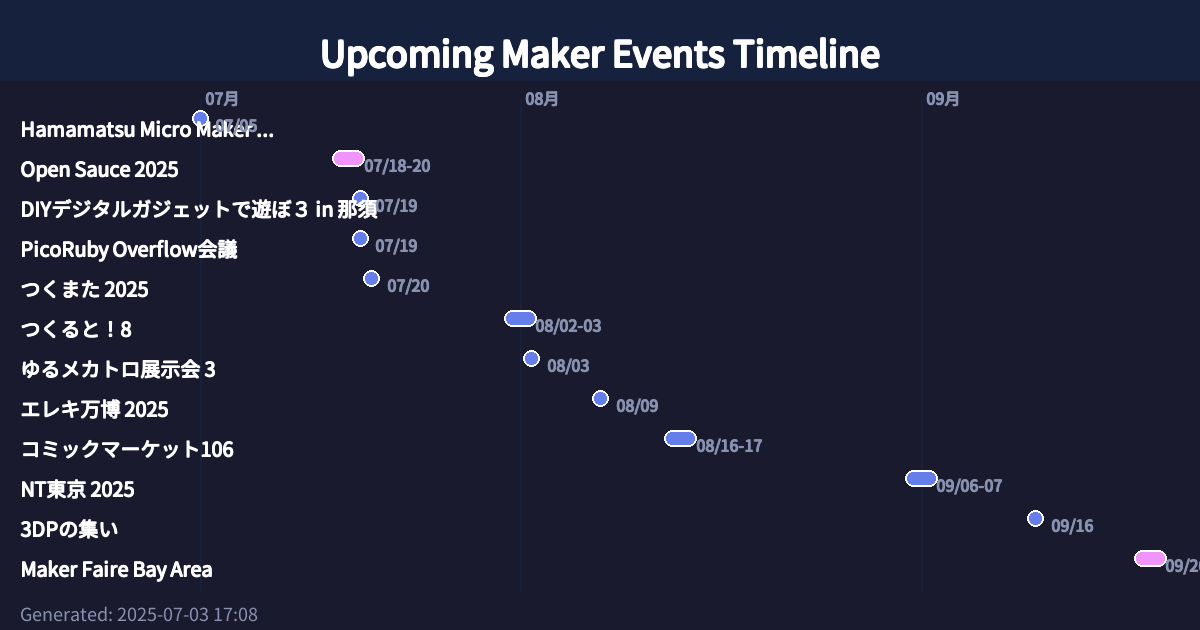
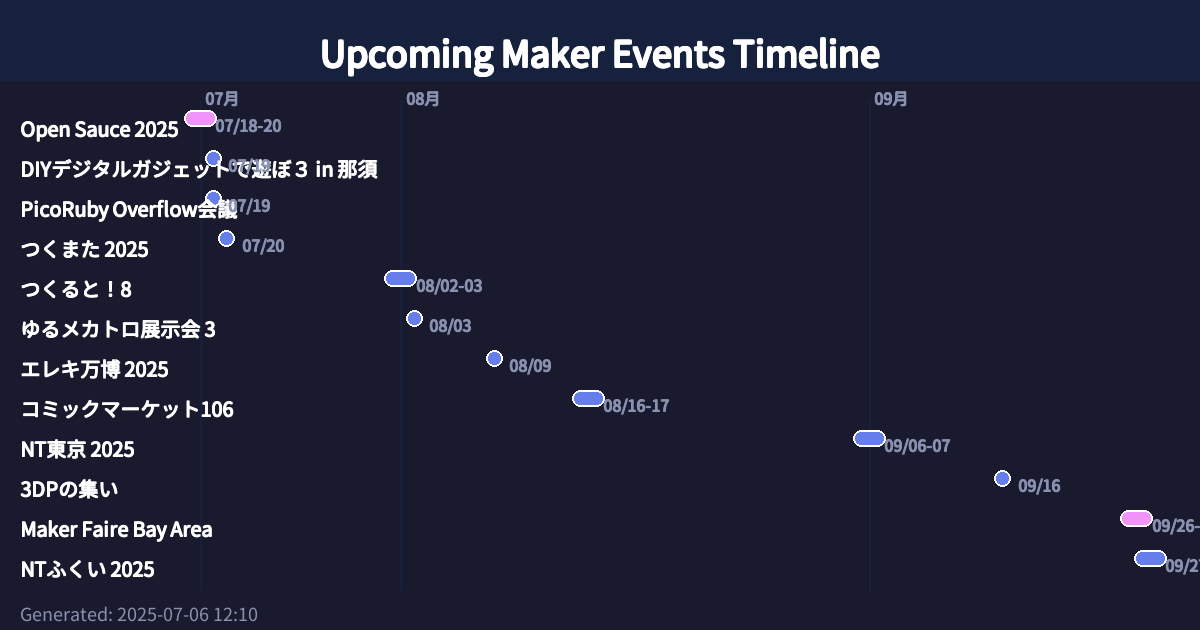
サイト更新

diff --git a/index.html b/index.html
@@ -7,7 +7,7 @@
     
     <!-- OGP Meta Tags for Social Media Sharing -->
     <meta property="og:title" content="Upcoming Maker Events | 今後のメイカーイベント">
-    <meta property="og:description" content="世界中のメイカーイベント情報を一覧で確認。Maker Faire、NT、技術書典など28件のイベント情報を掲載。 | Discover upcoming maker events worldwide including Maker Faires, technical conferences, and maker gatherings.">
+    <meta property="og:description" content="世界中のメイカーイベント情報を一覧で確認。Maker Faire、NT、技術書典など27件のイベント情報を掲載。 | Discover upcoming maker events worldwide including Maker Faires, technical conferences, and maker gatherings.">
     <meta property="og:type" content="website">
     <meta property="og:url" content="https://shinichi-ohki.github.io/maker_event/">
     <meta property="og:image" content="https://shinichi-ohki.github.io/maker_event/ogp_image.png">
@@ -17,11 +17,11 @@
     <!-- Twitter Card -->
     <meta name="twitter:card" content="summary_large_image">
     <meta name="twitter:title" content="Upcoming Maker Events | 今後のメイカーイベント">
-    <meta name="twitter:description" content="世界中のメイカーイベント情報を一覧で確認。28件のイベント情報を掲載。">
+    <meta name="twitter:description" content="世界中のメイカーイベント情報を一覧で確認。27件のイベント情報を掲載。">
     <meta name="twitter:image" content="https://shinichi-ohki.github.io/maker_event/ogp_image.png">
     
     <!-- Standard Meta Tags -->
-    <meta name="description" content="世界中のメイカーイベント情報を一覧で確認。Maker Faire、NT、技術書典など28件のイベント情報を掲載。">
+    <meta name="description" content="世界中のメイカーイベント情報を一覧で確認。Maker Faire、NT、技術書典など27件のイベント情報を掲載。">
     <meta name="keywords" content="Maker Faire, メイカーイベント, 技術イベント, NT, 技術書典, DIY, ハードウェア, プログラミング">
     <meta name="author" content="Maker Events Team">
     <style>
@@ -203,25 +203,6 @@
                 <div class="event-card">
                     <div class="event-image">
                         
-                            <img src="https://makezine.jp/event/wp-content/uploads/sites/2/2025/03/631eb229b29544b476e18bbe4b75c449.jpg" alt="Hamamatsu Micro Maker Faire 2025" style="width: 100%; height: 100%; object-fit: cover;">
-                        
-                    </div>
-                    <div class="event-content">
-                        
-                        <div class="event-date">2025年07月05日</div>
-                        
-                        <h3 class="event-title">Hamamatsu Micro Maker Faire 2025</h3>
-                        <p class="event-location">浜松科学館 みらいーら, 浜松, 日本</p>
-                        
-                        
-                        <a href="https://makezine.jp/event/makerfaire/hmmf2025/" class="event-link" target="_blank">詳細を見る</a>
-                        
-                    </div>
-                </div>
-                
-                <div class="event-card">
-                    <div class="event-image">
-                        
                             <img src="https://media.connpass.com/thumbs/97/e5/97e5cd6dcee122a946a0cfd527e4f387.png" alt="DIYデジタルガジェットで遊ぼ３ in 那須" style="width: 100%; height: 100%; object-fit: cover;">
                         
                     </div>
@@ -317,7 +298,7 @@
                 <div class="event-card">
                     <div class="event-image">
                         
-                            🛠
+                            <img src="https://eleki-expo2025.cqpub.co.jp/wp-content/uploads/2025/05/ogp.jpg" alt="エレキ万博 2025" style="width: 100%; height: 100%; object-fit: cover;">
                         
                     </div>
                     <div class="event-content">
@@ -543,7 +524,7 @@
                 <div class="event-card">
                     <div class="event-image">
                         
-                            <img src="https://keyket.jp/tokyo-2025/ogp_kv.jpg" alt="キーボードマーケット トーキョー2026" style="width: 100%; height: 100%; object-fit: cover;">
+                            <img src="https://keyket.jp/tokyo-2026/ogp.png" alt="キーボードマーケット トーキョー2026" style="width: 100%; height: 100%; object-fit: cover;">
                         
                     </div>
                     <div class="event-content">
@@ -554,7 +535,7 @@
                         <p class="event-location">東京都産業貿易センター 浜松町館, 東京, 日本</p>
                         
                         
-                        <a href="https://keyket.jp/" class="event-link" target="_blank">詳細を見る</a>
+                        <a href="https://keyket.jp/tokyo-2026" class="event-link" target="_blank">詳細を見る</a>
                         
                     </div>
                 </div>
